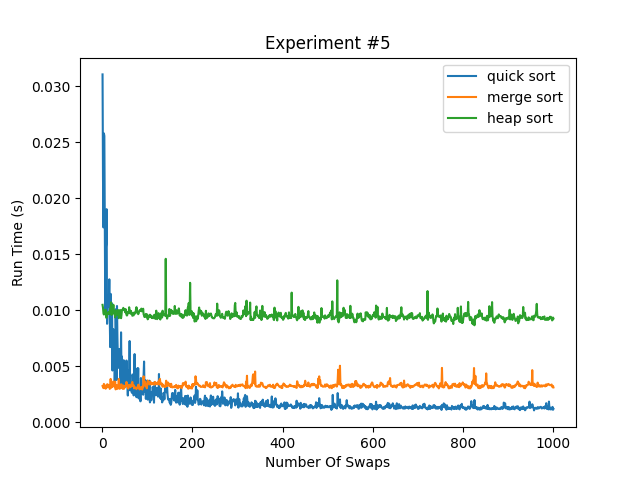
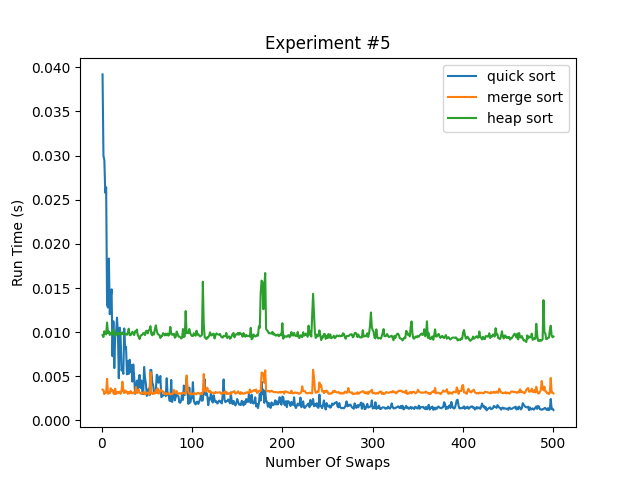
Changed E5.png to 500 swaps instead of 1000

diff --git a/.idea/Experiment5.py b/.idea/Experiment5.py
@@ -152,7 +152,7 @@ def compareRunTimes():
     elementsMergeSort=[]
     elementsHeapSort=[]
 
-    while numOfSwaps < 1000:
+    while numOfSwaps < 500:
         numOfSwaps += 1
 
         #running tests for the quick sort
